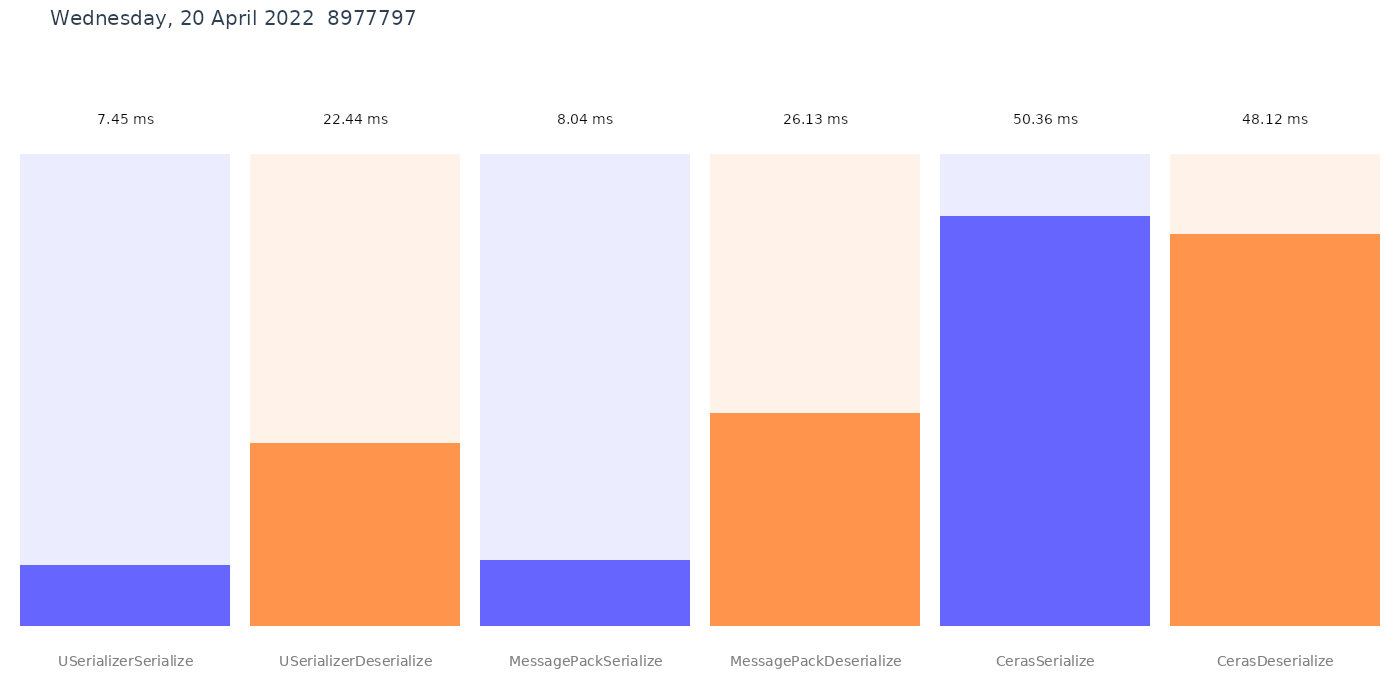
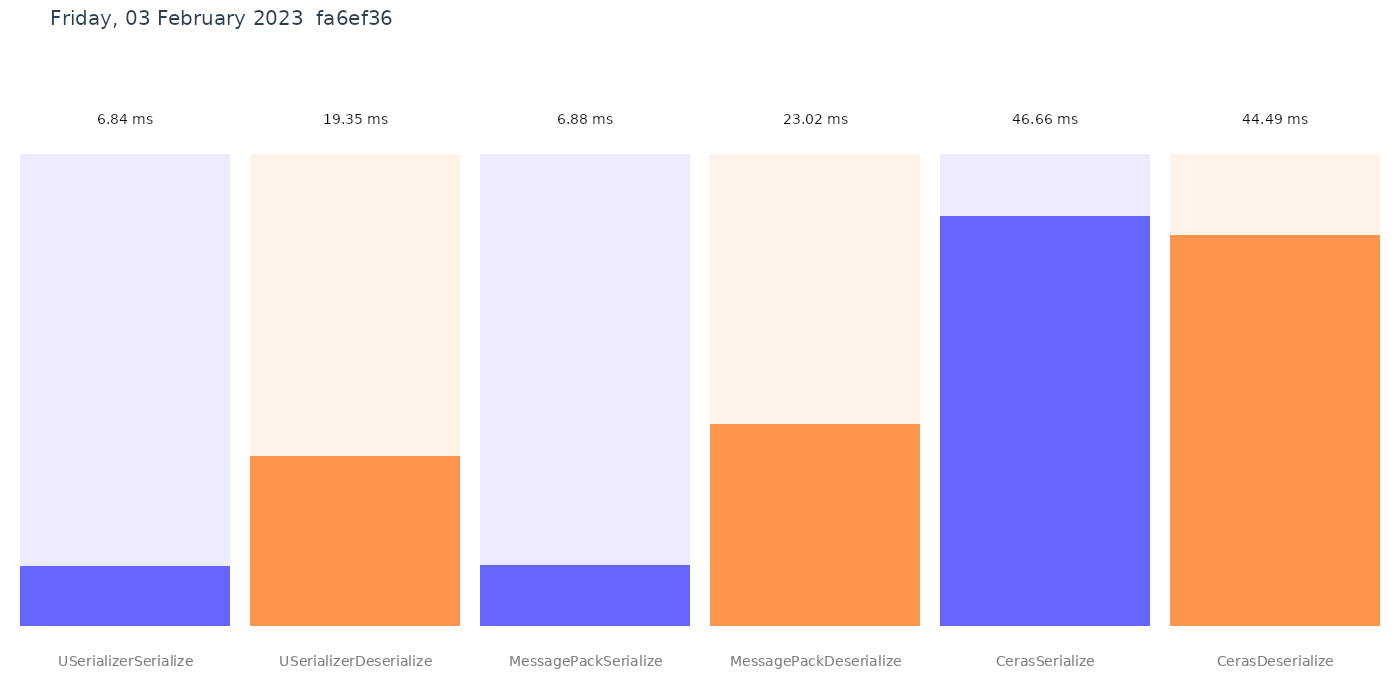
deploy: fa6ef3602438f4f64afc7df9d2eb7f990ebcbdb8

diff --git a/performance.md b/performance.md
@@ -1,10 +1,10 @@
 ``` ini
 
-BenchmarkDotNet=v0.12.1, OS=ubuntu 20.04
-Intel Xeon Platinum 8272CL CPU 2.60GHz, 1 CPU, 2 logical and 2 physical cores
-.NET Core SDK=5.0.407
-  [Host]   : .NET Core 5.0.16 (CoreCLR 5.0.1622.16705, CoreFX 5.0.1622.16705), X64 RyuJIT
-  ShortRun : .NET Core 5.0.16 (CoreCLR 5.0.1622.16705, CoreFX 5.0.1622.16705), X64 RyuJIT
+BenchmarkDotNet=v0.12.1, OS=ubuntu 22.04
+Intel Xeon Platinum 8370C CPU 2.80GHz, 1 CPU, 2 logical and 2 physical cores
+.NET Core SDK=5.0.408
+  [Host]   : .NET Core 5.0.17 (CoreCLR 5.0.1722.21314, CoreFX 5.0.1722.21314), X64 RyuJIT
+  ShortRun : .NET Core 5.0.17 (CoreCLR 5.0.1722.21314, CoreFX 5.0.1722.21314), X64 RyuJIT
 
 Job=ShortRun  IterationCount=3  LaunchCount=1  
 WarmupCount=3  
@@ -12,9 +12,9 @@ WarmupCount=3
 ```
 |                 Method |      Mean |     Error |    StdDev |
 |----------------------- |----------:|----------:|----------:|
-|   USerializerSerialize |  7.453 ms | 0.0318 ms | 0.0017 ms |
-| USerializerDeserialize | 22.437 ms | 1.2548 ms | 0.0688 ms |
-|   MessagePackSerialize |  8.044 ms | 0.3226 ms | 0.0177 ms |
-| MessagePackDeserialize | 26.130 ms | 4.3904 ms | 0.2407 ms |
-|         CerasSerialize | 50.364 ms | 0.7334 ms | 0.0402 ms |
-|       CerasDeserialize | 48.120 ms | 1.0208 ms | 0.0560 ms |
+|   USerializerSerialize |  6.845 ms | 0.1809 ms | 0.0099 ms |
+| USerializerDeserialize | 19.346 ms | 6.6184 ms | 0.3628 ms |
+|   MessagePackSerialize |  6.882 ms | 0.0140 ms | 0.0008 ms |
+| MessagePackDeserialize | 23.018 ms | 5.2296 ms | 0.2867 ms |
+|         CerasSerialize | 46.663 ms | 1.7155 ms | 0.0940 ms |
+|       CerasDeserialize | 44.486 ms | 5.6493 ms | 0.3097 ms |
